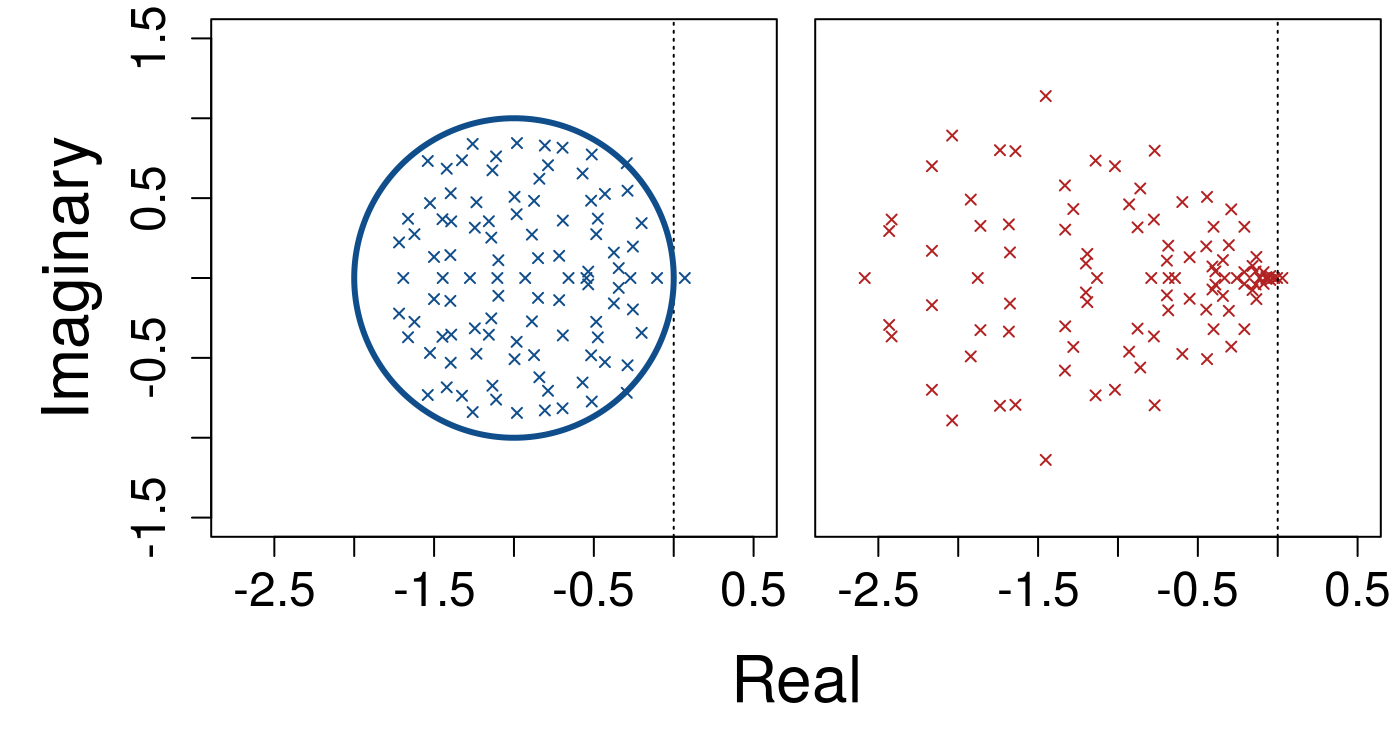
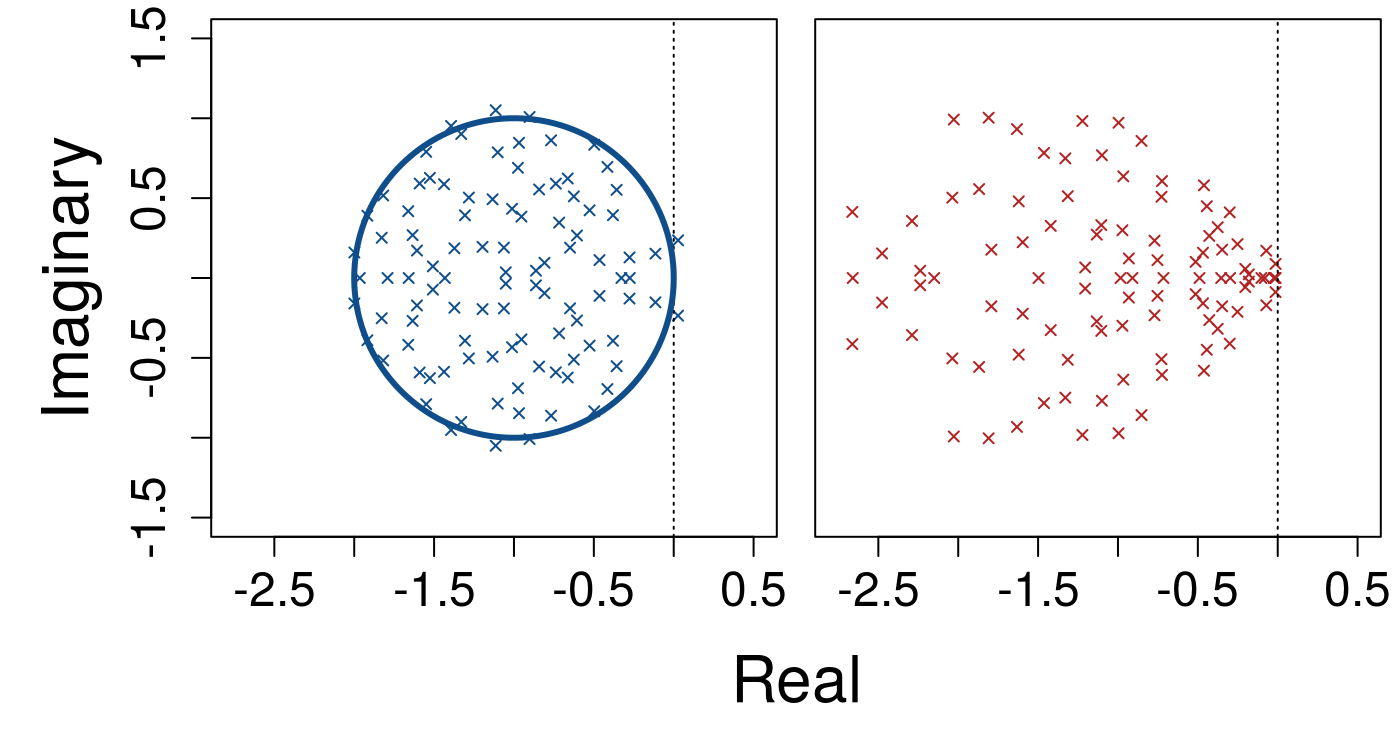
Apply equation numbering to the website*

diff --git a/docs/articles/RandomMatrixStability.html b/docs/articles/RandomMatrixStability.html
@@ -114,7 +114,7 @@ https://gist.github.com/JJ/ef9d3d8f1142df064bd5
 <p>In 1972, May<span class="citation"><sup><a href="#ref-May1972">1</a></sup></span> first demonstrated that randomly assembled systems of sufficient complexity are almost inevitably unstable given infinitesimally small perturbations. Complexity in this case is defined by the size of the system (i.e., the number of potentially interacting components; <span class="math inline">\(S\)</span>), its connectance (i.e., the probability that one component will interact with another; <span class="math inline">\(C\)</span>), and the variance of interaction strengths (<span class="math inline">\(\sigma^{2}\)</span>)<span class="citation"><sup><a href="#ref-Allesina2012">2</a></sup></span>. May’s finding that the probability of local stability falls to near zero given a sufficiently high threshold of <span class="math inline">\(\sigma\sqrt{SC}\)</span> is broadly relevant for understanding the dynamics and persistence of systems such as ecological<span class="citation"><sup><a href="#ref-May1972">1</a>–<a href="#ref-Grilli2017">6</a></sup></span>, neurological<span class="citation"><sup><a href="#ref-Gray2008">7</a>,<a href="#ref-Gray2009">8</a></sup></span>, biochemical<span class="citation"><sup><a href="#ref-Rosenfeld2009">9</a>,<a href="#ref-MacArthur2010">10</a></sup></span>, and socio-economic<span class="citation"><sup><a href="#ref-May2008">11</a>–<a href="#ref-Bardoscia2017">14</a></sup></span> networks. As such, identifying general principles that affect stability in complex systems is of wide-ranging importance.</p>
 <p>Randomly assembled complex systems can be represented as large square matrices (<span class="math inline">\(\mathbf{M}\)</span>) with <span class="math inline">\(S\)</span> components (e.g., networks of species<span class="citation"><sup><a href="#ref-Allesina2012">2</a></sup></span> or banks<span class="citation"><sup><a href="#ref-Haldane2011">12</a></sup></span>). One element of such a matrix, <span class="math inline">\(M_{ij}\)</span>, defines how component <span class="math inline">\(j\)</span> affects component <span class="math inline">\(i\)</span> in the system at a point of equilibrium<span class="citation"><sup><a href="#ref-Allesina2012">2</a></sup></span>. Off-diagonal elements (<span class="math inline">\(i \neq j\)</span>) therefore define interactions between components, while diagonal elements (<span class="math inline">\(i = j\)</span>) define component self-regulation (e.g., carrying capacity in ecological communities). Traditionally, off-diagonal elements are assigned non-zero values with a probability <span class="math inline">\(C\)</span>, which are sampled from a distribution with variance <span class="math inline">\(\sigma^{2}\)</span>; diagonal elements are set to <span class="math inline">\(-1\)</span><span class="citation"><sup><a href="#ref-May1972">1</a>,<a href="#ref-Allesina2012">2</a>,<a href="#ref-Allesina2015">5</a></sup></span>. Local system stability is assessed using eigenanalysis on <span class="math inline">\(\mathbf{M}\)</span>, with the system being stable if the real parts of all eigenvalues (<span class="math inline">\(\lambda\)</span>), and therefore the leading eigenvalue (<span class="math inline">\(\lambda_{max}\)</span>), are negative (<span class="math inline">\(\Re(\lambda_{max}) &lt; 0\)</span>)<span class="citation"><sup><a href="#ref-May1972">1</a>,<a href="#ref-Allesina2012">2</a></sup></span>. In a large system (high <span class="math inline">\(S\)</span>), eigenvalues are distributed uniformly<span class="citation"><sup><a href="#ref-Tao2010">15</a></sup></span> within a circle centred at <span class="math inline">\(\Re = -d\)</span> (<span class="math inline">\(-d\)</span> is the mean value of diagonal elements) and <span class="math inline">\(\Im = 0\)</span>, with a radius of <span class="math inline">\(\sigma\sqrt{SC}\)</span><span class="citation"><sup><a href="#ref-May1972">1</a>,<a href="#ref-Allesina2012">2</a>,<a href="#ref-Allesina2015">5</a></sup></span> (Fig. 1a). Local stability of randomly assembled systems therefore becomes increasingly unlikely as <span class="math inline">\(S\)</span>, <span class="math inline">\(C\)</span>, and <span class="math inline">\(\sigma\)</span> increase.</p>
 <hr>
-<p><strong>Figure 1: Eigenvalue distributions of random complex systems.</strong> Each panel shows the real (x-axis) and imaginary (y-axis) parts of <span class="math inline">\(S =\)</span> 400 eigenvalues from random <span class="math inline">\(S \times S\)</span> matrices. (<span class="math inline">\(\textbf{a}\)</span>) A system represented by a matrix <span class="math inline">\(\mathbf{A}\)</span>, in which all elements are sampled from a normal distribution with <span class="math inline">\(\mu = 0\)</span> and <span class="math inline">\(\sigma_{A} = 1/\sqrt{S}\)</span>. Points are uniformly distributed within the blue circle centred at the origin with a radius of <span class="math inline">\(\sigma_{A} \sqrt{S} = 1\)</span>. (<span class="math inline">\(\textbf{b}\)</span>) The same system as <span class="math inline">\(\textbf{a}\)</span> after including variation in the response rates of <span class="math inline">\(S\)</span> components, represented by the diagonal matrix <span class="math inline">\(\gamma\)</span>, such that <span class="math inline">\(\mathbf{M} = \gamma\mathbf{A}\)</span>. Elements of <span class="math inline">\(\gamma\)</span> are randomly sampled from a uniform distribution from <span class="math inline">\(\min = 0\)</span> to <span class="math inline">\(\max = 2\)</span>. Eigenvalues of <span class="math inline">\(\mathbf{M}\)</span> are then distributed non-uniformly within the red circle centred at the origin with a radius of <span class="math inline">\(\sqrt{\sigma^{2}_{A}(1 + \sigma^{2}_{\gamma})S} \approx\)</span> 1.13. (<span class="math inline">\(\textbf{c}\)</span>) A different random system <span class="math inline">\(\mathbf{A}\)</span> constructed from the same parameters as in <span class="math inline">\(\textbf{a}\)</span>, except with diagonal element values of <span class="math inline">\(-1\)</span>. (<span class="math inline">\(\textbf{d}\)</span>) The same system <span class="math inline">\(\textbf{c}\)</span> after including variation in component response rates, sampled from <span class="math inline">\(\mathcal{U}(0, 2)\)</span> as in <span class="math inline">\(\textbf{b}\)</span>.</p>
+<p><strong>Figure 1: Eigenvalue distributions of random complex systems.</strong> Each panel shows the real (x-axis) and imaginary (y-axis) parts of <span class="math inline">\(S =\)</span> 400 eigenvalues from random <span class="math inline">\(S \times S\)</span> matrices. (<span class="math inline">\(\textbf{a}\)</span>) A system represented by a matrix <span class="math inline">\(\mathbf{A}\)</span>, in which all elements are sampled from a normal distribution with <span class="math inline">\(\mu = 0\)</span> and <span class="math inline">\(\sigma_{A} = 1/\sqrt{S}\)</span>. Points are uniformly distributed within the blue circle centred at the origin with a radius of <span class="math inline">\(\sigma_{A} \sqrt{S} = 1\)</span>. (<span class="math inline">\(\textbf{b}\)</span>) The same system as <span class="math inline">\(\textbf{a}\)</span> after including variation in the response rates of <span class="math inline">\(S\)</span> components, represented by the diagonal matrix <span class="math inline">\(\gamma\)</span>, such that <span class="math inline">\(\mathbf{M} = \gamma\mathbf{A}\)</span>. Elements of <span class="math inline">\(\gamma\)</span> are randomly sampled from a uniform distribution from <span class="math inline">\(\min = 0\)</span> to <span class="math inline">\(\max = 2\)</span>. Eigenvalues of <span class="math inline">\(\mathbf{M}\)</span> are then distributed non-uniformly within the red circle centred at the origin with a radius of <span class="math inline">\(\sqrt{\sigma^{2}_{A}(1 + \sigma^{2}_{\gamma})S} \approx\)</span> 1.19. (<span class="math inline">\(\textbf{c}\)</span>) A different random system <span class="math inline">\(\mathbf{A}\)</span> constructed from the same parameters as in <span class="math inline">\(\textbf{a}\)</span>, except with diagonal element values of <span class="math inline">\(-1\)</span>. (<span class="math inline">\(\textbf{d}\)</span>) The same system <span class="math inline">\(\textbf{c}\)</span> after including variation in component response rates, sampled from <span class="math inline">\(\mathcal{U}(0, 2)\)</span> as in <span class="math inline">\(\textbf{b}\)</span>.</p>
 <p><img src="RandomMatrixStability_files/figure-html/unnamed-chunk-4-1.png" width="672"></p>
 <p></p>
 <hr>
@@ -133,12 +133,12 @@ https://gist.github.com/JJ/ef9d3d8f1142df064bd5
 \sigma^{2}_{M} = \sigma^{2}_{A}\sigma^{2}_{\gamma} + \sigma^{2}_{A}E[\gamma_{i}]^{2}+\sigma^{2}_{\gamma}E[A_{ij}]^{2}.
 \end{equation}\]</span>
 <p>Given <span class="math inline">\(E[\gamma_{i}] = 1\)</span> and <span class="math inline">\(E[A_{ij}] = 0\)</span>, Eq.  can be simplified,</p>
-<span class="math display">\[\begin{equation} \label{var_reduced}
+<span class="math display">\[\begin{equation} 
 \sigma^{2}_{M} = \sigma^{2}_{A}(1 + \sigma^{2}_{\gamma}).
 \end{equation}\]</span>
 <p>The increase in <span class="math inline">\(\sigma^{2}_{M}\)</span> caused by <span class="math inline">\(\sigma^{2}_\gamma\)</span> can be visualised from the eigenvalue spectra of <span class="math inline">\(\textbf{A}\)</span> versus <span class="math inline">\(\textbf{M} = \boldsymbol{\gamma}\textbf{A}\)</span> (Fig. 1). Given <span class="math inline">\(d = 0\)</span> and <span class="math inline">\(C = 1\)</span>, the distribution of eigenvalues of <span class="math inline">\(\textbf{A}\)</span> and <span class="math inline">\(\textbf{M}\)</span> lie within a circle of a radius <span class="math inline">\(\sigma_{A}\sqrt{S}\)</span> and <span class="math inline">\(\sigma_{M}\sqrt{S}\)</span>, respectively (Fig. 1a vs. 1b). If <span class="math inline">\(d \neq 0\)</span>, positive <span class="math inline">\(\sigma^{2}_\gamma\)</span> changes the distribution of eigenvalues<span class="citation"><sup><a href="#ref-Ahmadian2015">23</a>–<a href="#ref-Stone2017">25</a></sup></span>, potentially affecting stability (Fig. 1c vs. 1d).</p>
 <p>Given <span class="math inline">\(\sigma^{2}_\gamma = 0\)</span>, <span class="math inline">\(\Re(\lambda_{max})\)</span> increases linearly with <span class="math inline">\(\rho\)</span> such that<span class="citation"><sup><a href="#ref-Tang2014c">26</a></sup></span>,</p>
-<span class="math display">\[\begin{equation} \label{rho_stab}
+<span class="math display">\[\begin{equation}
 \Re(\lambda_{max}) \approx \sigma_{M}\sqrt{SC}\left(1 + \rho\right).
 \end{equation}\]</span>
 <p>If <span class="math inline">\(\rho &lt; 0\)</span>, such as when <span class="math inline">\(\textbf{M}\)</span> models a predator-prey system in which <span class="math inline">\(M_{ij}\)</span> and <span class="math inline">\(M_{ji}\)</span> have opposing signs, stability increases<span class="citation"><sup><a href="#ref-Allesina2012">2</a></sup></span>. If diagonal elements of <span class="math inline">\(\boldsymbol{\gamma}\)</span> vary independently, the magnitude of <span class="math inline">\(\rho\)</span> is decreased because <span class="math inline">\(\sigma^{2}_{\gamma}\)</span> increases the variance of <span class="math inline">\(M_{ij}\)</span> without affecting the expected covariance between <span class="math inline">\(M_{ij}\)</span> and <span class="math inline">\(M_{ji}\)</span> (Figure 2).</p>

diff --git a/docs/articles/Supplemental_Information.html b/docs/articles/Supplemental_Information.html
@@ -6307,7 +6307,7 @@
 </tr>
 </tbody>
 </table>
-<p>Cascade food webs are more likely to be stable than small-world or scale-free networks at equivalent magnitudes of complexity (note that <span class="math inline">\(C = 1\)</span> for all above rows). A higher number of stable <span class="math inline">\(\mathbf{M}\)</span> than <span class="math inline">\(\mathbf{A}\)</span> was found given <span class="math inline">\(S \geq 27\)</span>.</p>
+<p>Cascade food webs are more likely to be stable than small-world or scale-free networks at equivalent magnitudes of complexity (note <span class="math inline">\(C = 1\)</span> for all above rows). A higher number of stable <span class="math inline">\(\mathbf{M}\)</span> than <span class="math inline">\(\mathbf{A}\)</span> was found given <span class="math inline">\(S \geq 27\)</span>.</p>
 </div>
 <div id="Feasibility" class="section level1">
 <h1 class="hasAnchor">
